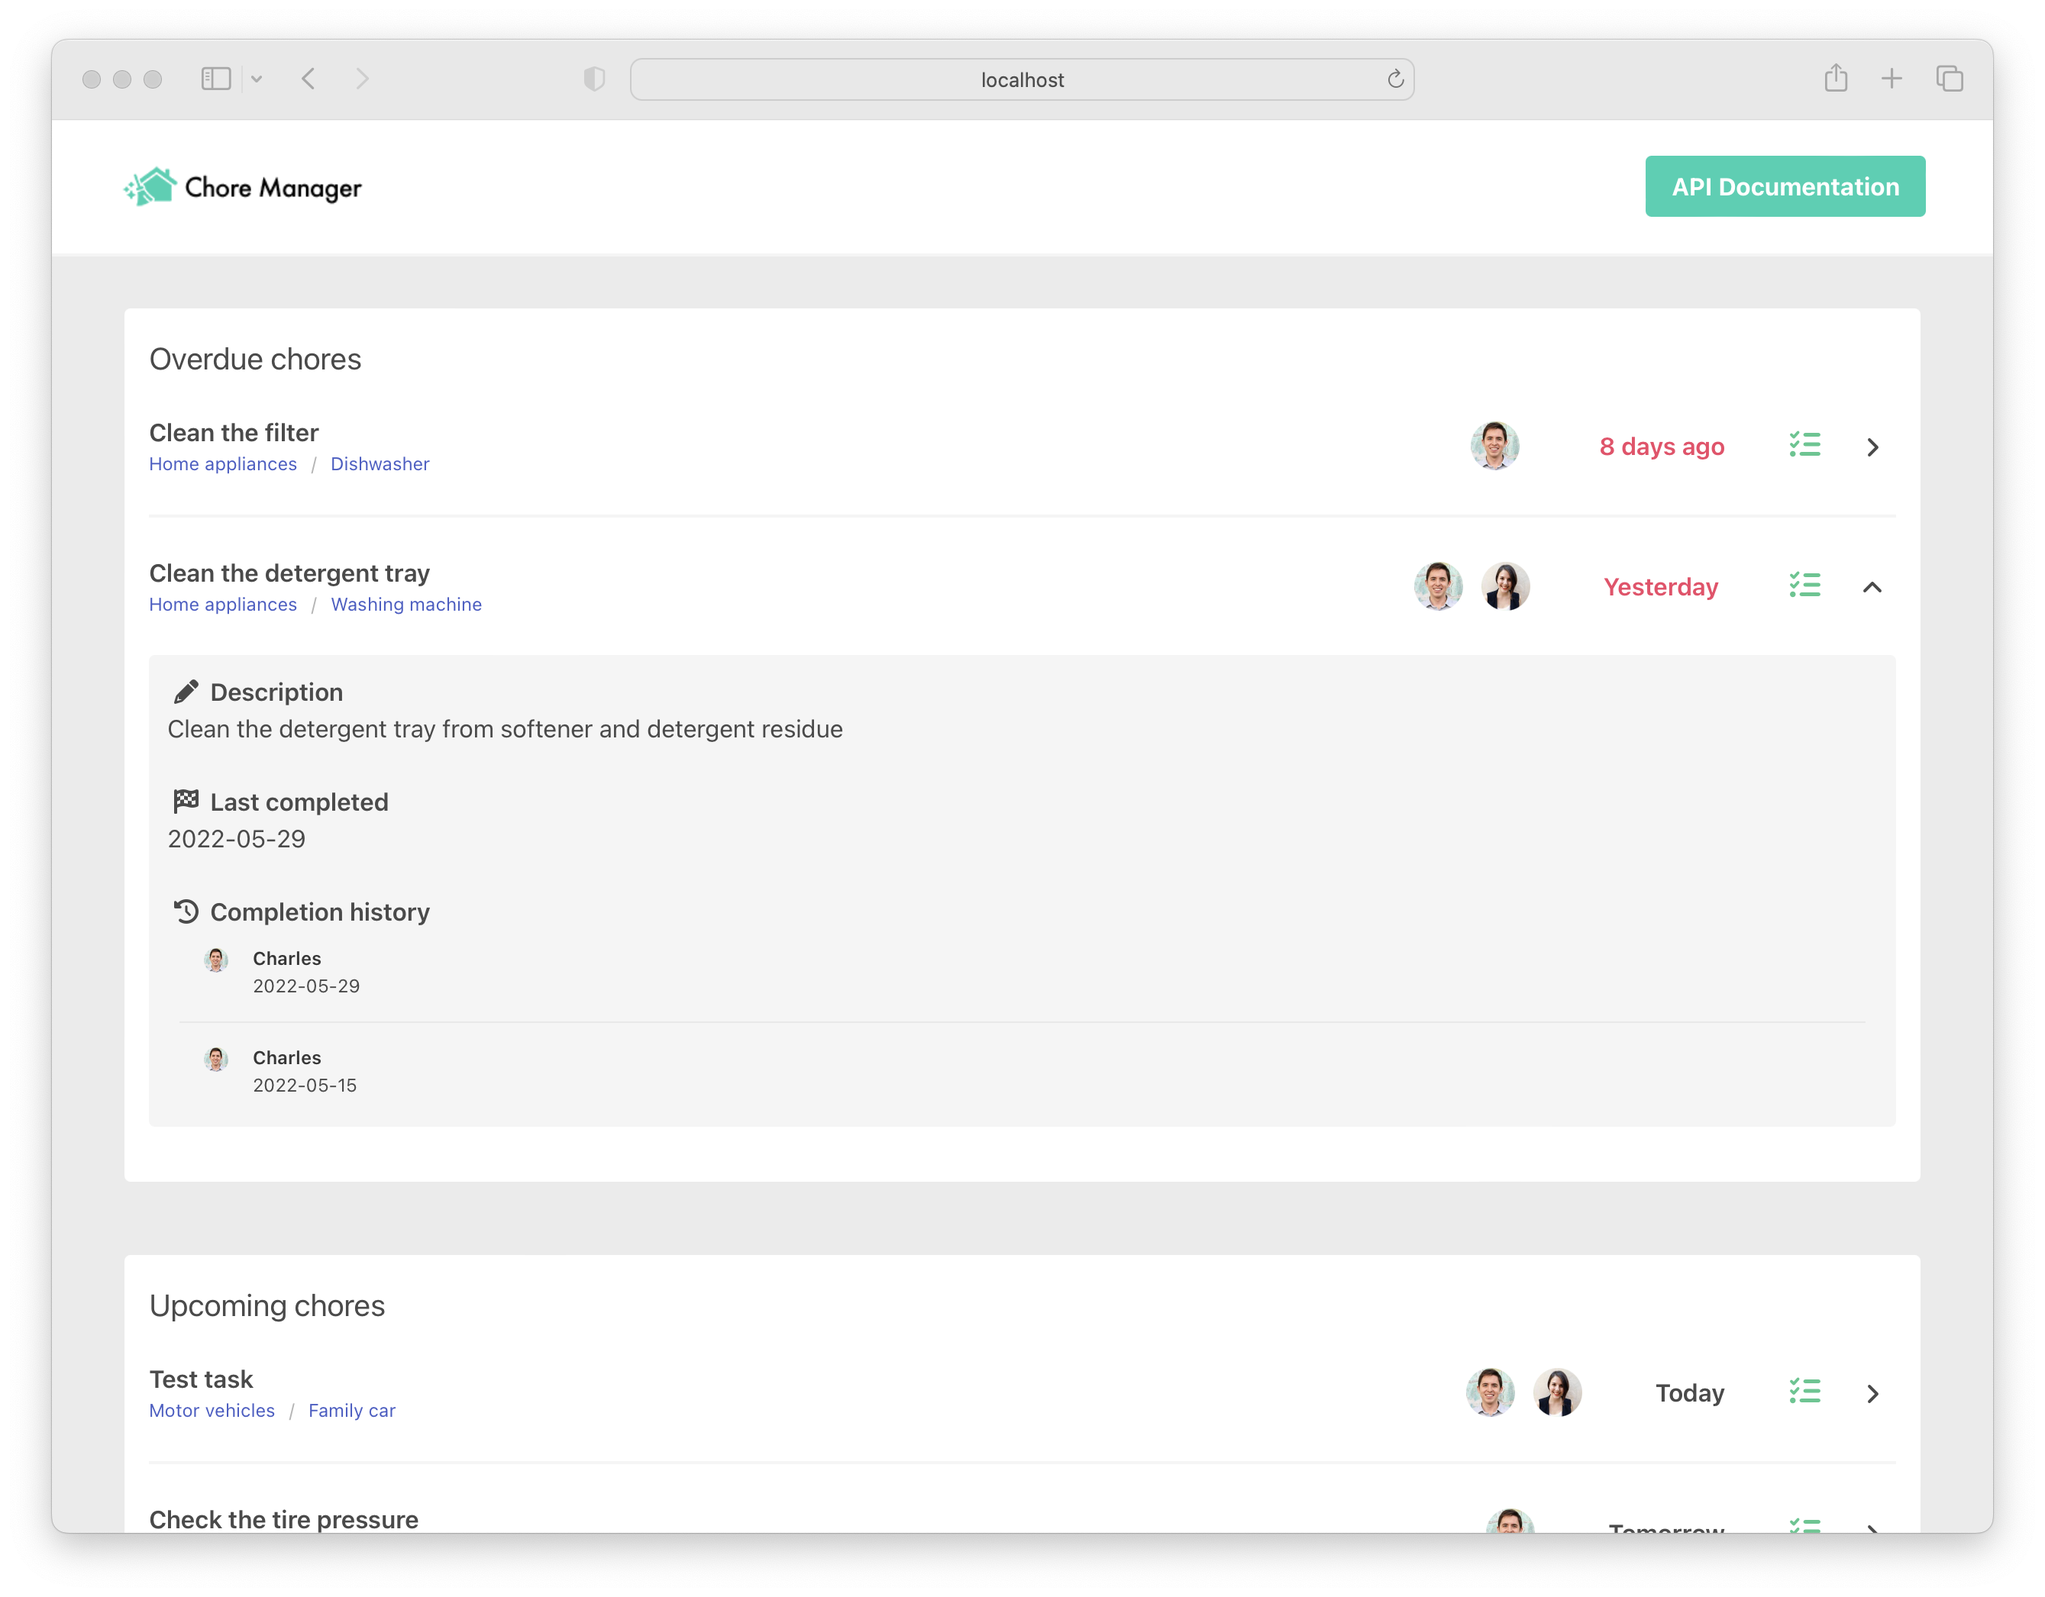
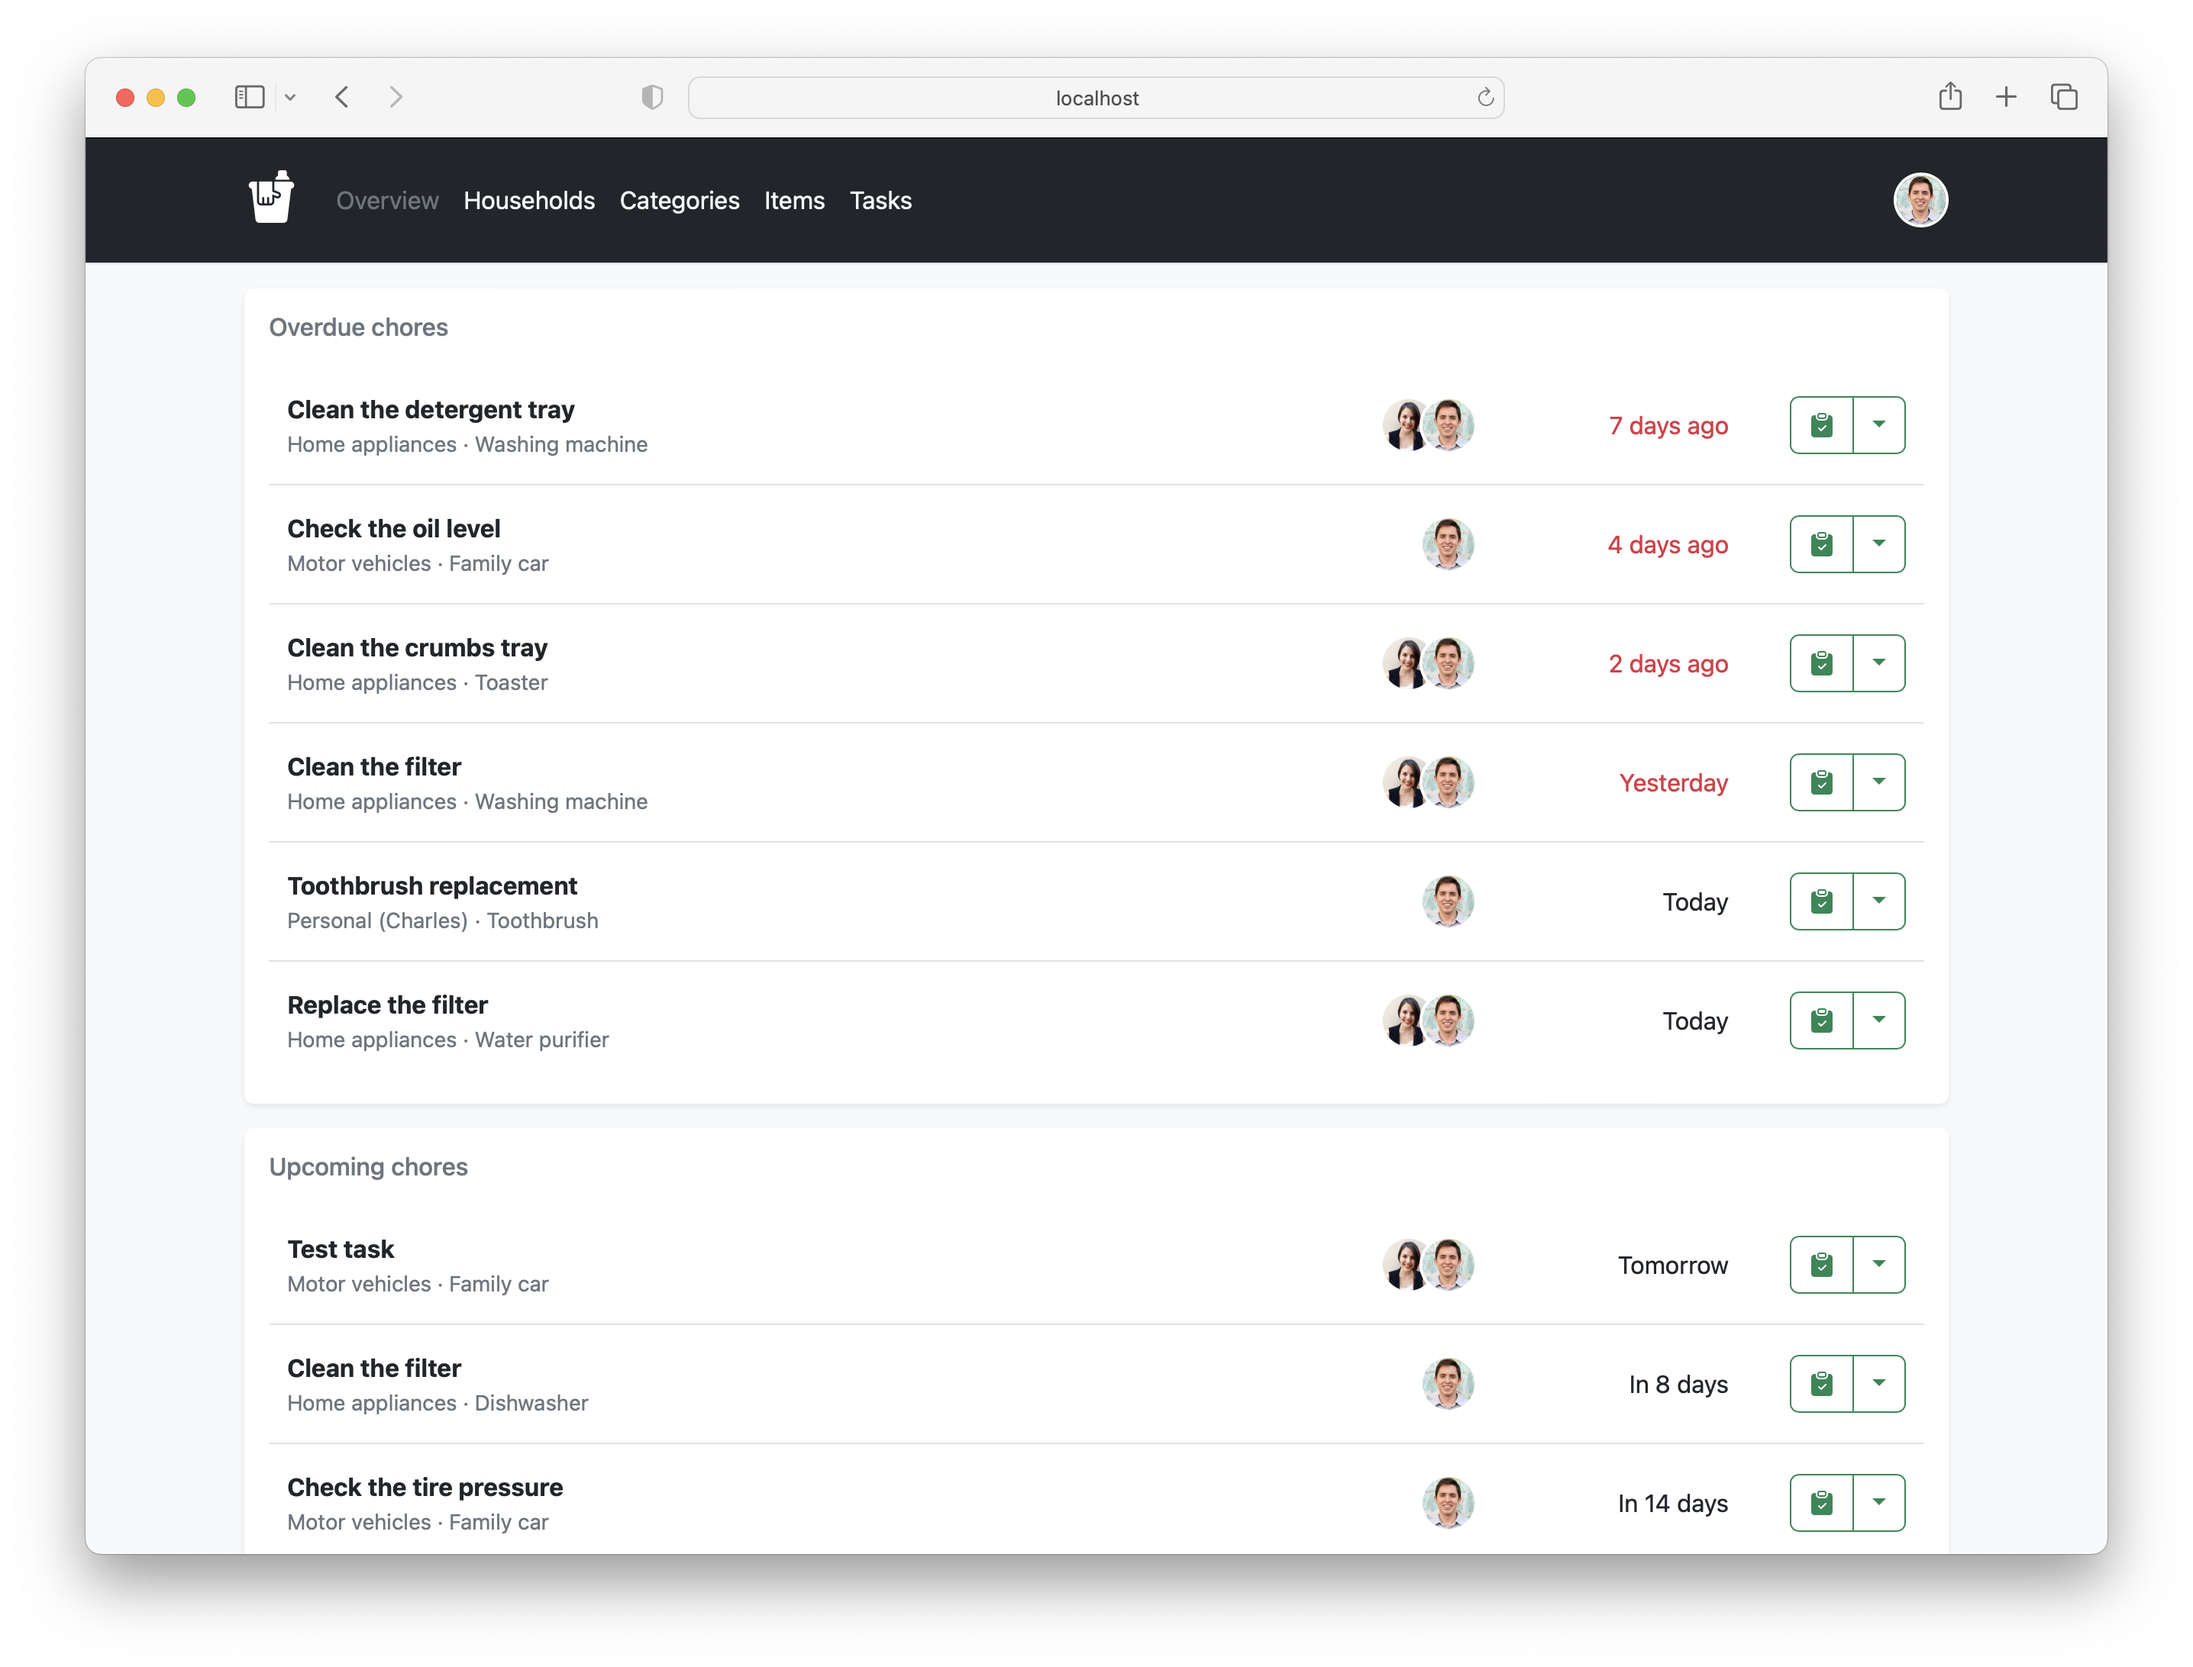
Add a current UI screenshot

diff --git a/README.md b/README.md
@@ -2,10 +2,11 @@
 <img src="https://raw.githubusercontent.com/laxsrbija/chore-manager/main/chore-manager-frontend/src/assets/icon.png" width="150">
 </p>
 
+![](https://raw.githubusercontent.com/laxsrbija/chore-manager/main/resources/chore-manager.png)
 
 ## About the project
 
-Chore Manager is a project that aims to help you keep track of your recurring 
+Chore Manager aims to help you keep track of your recurring 
 household tasks. The application allows users to create a customized list of chores, 
 set reminders for when they need to be completed, and track their progress over time.
 
@@ -29,7 +30,7 @@ docker run -d -p 8080:8080 --name chore-manager \
     -t laxsrbija/chore-manager:latest
 ```
 
-The binded host directory must contain an `application.properties` file used to configure the application.
+The mounted host directory must contain an `application.properties` file used to configure the application.
 A sample configuration can be found [here](chore-manager-backend/chore-manager-application/src/main/resources/application-dev.properties).
 
 ### Updates
